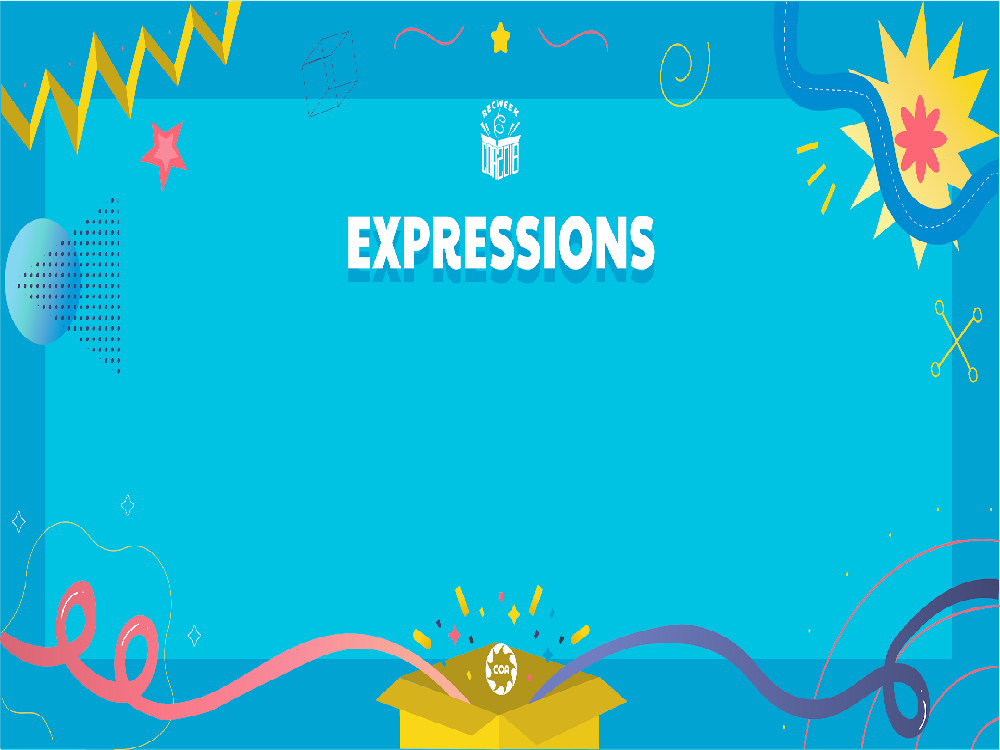
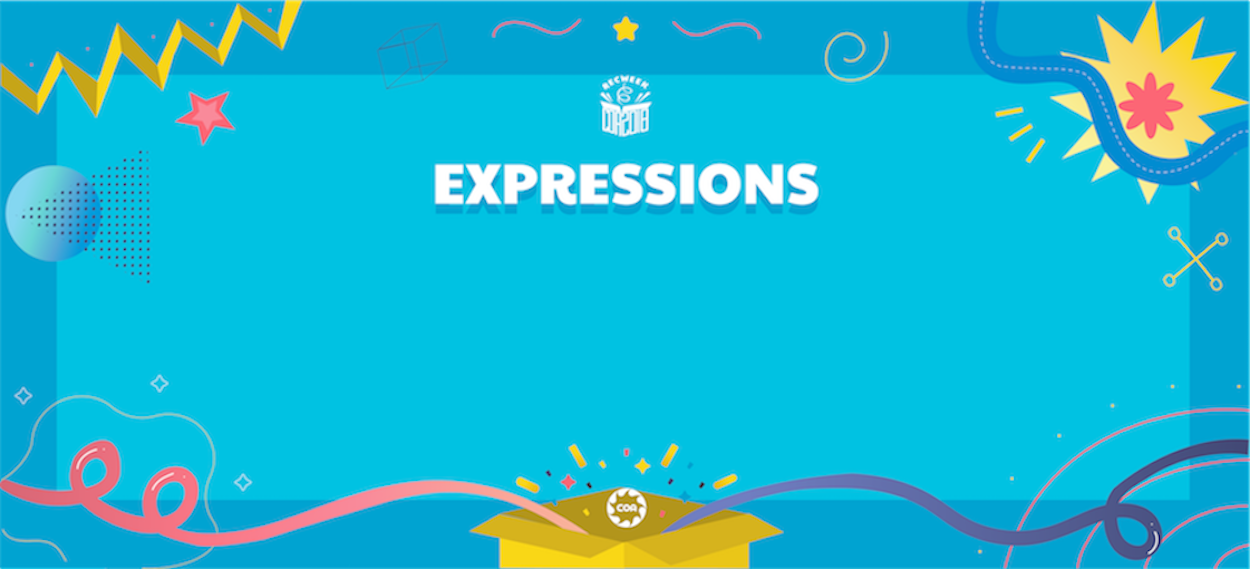
Resize and reformat the system

diff --git a/RegSystem.java b/RegSystem.java
@@ -81,7 +81,7 @@ public class RegSystem extends JFrame {
 
         studentDetails = new JLabel();
         studentDetails.setFont(new Font("Arial", Font.PLAIN, 20));
-        studentDetails.setBounds(325, 375, 600, 35);
+        studentDetails.setBounds(425, 275, 600, 35);
 
         addFields ();
         //addRadioButtons ();
@@ -169,7 +169,7 @@ public class RegSystem extends JFrame {
             add (text_field);
         }
 
-        idNumber.setBounds(450, 285, 100, 35);
+        idNumber.setBounds(575, 215, 100, 35);
         // Cross-Platform Compatibility
         if (System.getProperty("os.name").contains("Windows")) {
             // year.setBounds (147, 285, 40, 35);
@@ -255,14 +255,14 @@ public class RegSystem extends JFrame {
         submitButton.setForeground(Color.decode("#333333"));
         submitButton.setBorderPainted(false);
         submitButton.setFocusPainted(false);
-        submitButton.setBounds (440, 500, 120, 56);
+        submitButton.setBounds (565, 350, 120, 56);
 
         getRootPane().setDefaultButton(submitButton);
     }
 
     private void setWindowSize () {
-        int width = 1000;
-        int height = 750;
+        int width = 1250;
+        int height = 569;
 
         // Full Screen Settings
         /*
